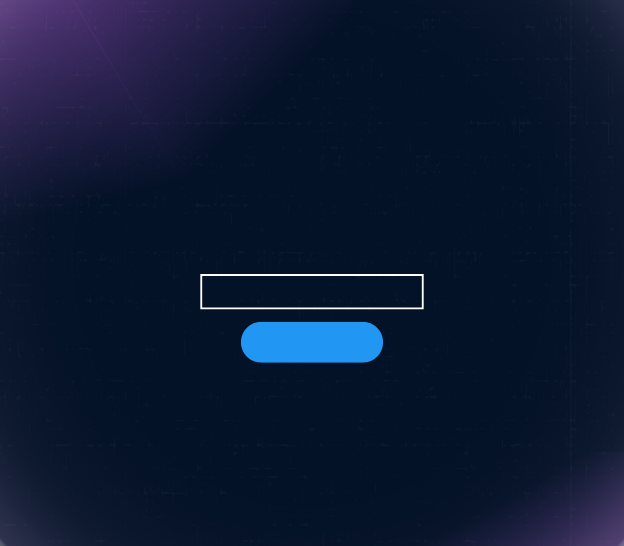
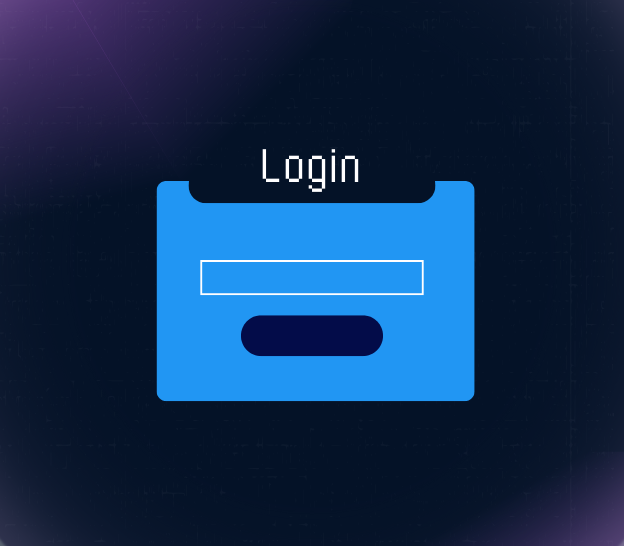
Alterando as imagens de fundo do login/cadastro

Changed region(s): [[0.2436, 0.2802, 0.7612, 0.7473]]

diff --git a/src/Interface/Interface_Login.cpp b/src/Interface/Interface_Login.cpp
@@ -3,16 +3,18 @@
 using namespace std;
 
 Interface_Login::Interface_Login()
-    : define_jogo(nullptr), caixa_de_texto1(15, sf::Color::White, false) { Set_Values();}
+    : define_jogo(nullptr), caixa_de_texto1(15, sf::Color::White, false) { 
+        Set_Values();
+    }
 
 Interface_Login::~Interface_Login(){}
 
 void Interface_Login::Set_Opcoes() {
-    opcoes_de_escolha = {"Digitar apelido", "Login"};
+    opcoes_de_escolha = {"Digitar apelido", "Play"};
 }
 
 void Interface_Login::Set_Textos() {
-    tamanho_fonte = {22, 17};
+    tamanho_fonte = {19, 17};
 
     for (size_t i = 0; i < opcoes_de_escolha.size(); ++i) {
         float pos_y = altura_texto + (i * espaco_vertical);
@@ -46,7 +48,7 @@ void Interface_Login::Set_Image() {
 } 
 
 void Interface_Login::Definicoes_Espacamento_Janela() {
-    espaco_vertical = 95.0f;
+    espaco_vertical = 90.0f;
     largura_janela = 624.0f;
     altura_texto = 244.0f; 
 }
@@ -70,7 +72,7 @@ void Interface_Login::Set_Values(){
     Set_Contorno_Inicial();
 
     float largura_caixa = 120.0f;
-    float espaco_adicional_entre_caixa_apelido = 16.0f;
+    float espaco_adicional_entre_caixa_apelido = 7.0f;
 
     float posicao_x_caixa_texto = (largura_janela - largura_caixa) / 2;
     float posicao_y_caixa_texto = coords[0].y + texto[0].getGlobalBounds().height + espaco_adicional_entre_caixa_apelido;

diff --git a/src/Interface/Interface_Cadastro.cpp b/src/Interface/Interface_Cadastro.cpp
@@ -3,7 +3,7 @@
 using namespace std;
 
 Interface_Cadastro::Interface_Cadastro()
-    : caixa_de_texto1(15, sf::Color::White, false), caixa_de_texto2(15, sf::Color::White, false) {
+    : define_jogo(nullptr), caixa_de_texto1(15, sf::Color::White, false), caixa_de_texto2(15, sf::Color::White, false) {
     Set_Values();
 }
 
@@ -41,7 +41,7 @@ void Interface_Cadastro::Set_Textos() {
 }
 
 void Interface_Cadastro::Set_Image() {
-    if (!image->loadFromFile("./assets/Menu/Login.png")) 
+    if (!image->loadFromFile("./assets/Menu/Cadastro.png")) 
         cerr << "Erro ao carregar imagem de fundo" << endl;
 
     background->setTexture(*image);
